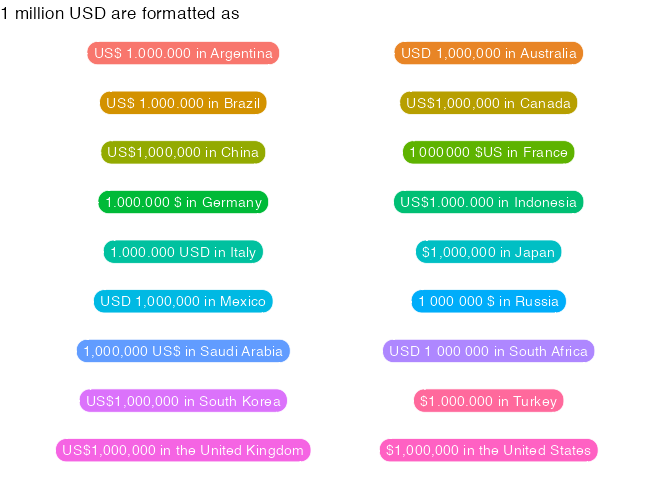
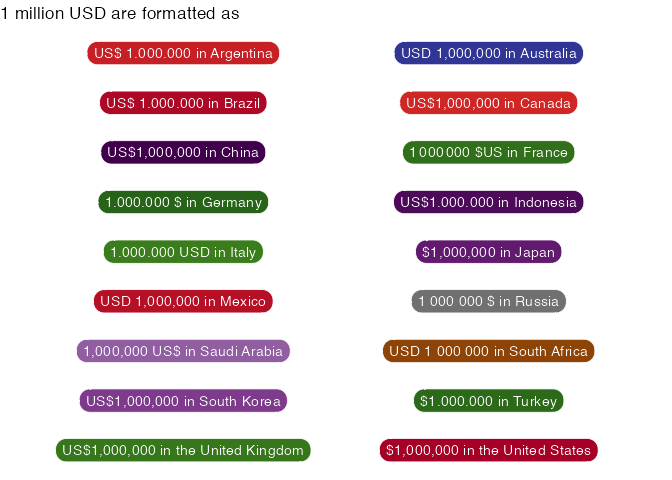
Use a static "not on CRAN yet" badge; color G20 example by country
- Swap the dynamic metacran CRAN badge (which 404s until the package is
  actually on CRAN) for a static shields.io badge reading "not on CRAN
  yet", following the convention used by several other pre-release R
  packages. Swap back to the dynamic badge once the real release lands.
- Color the README/pkgdown-home G20 example's country labels using
  gapminder::country_colors instead of the default discrete hue palette,
  remapping South Korea to gapminder's "Korea, Rep." entry and giving
  Russia (absent from gapminder's 142-country palette) a manual fallback
  color.

Claude-Session: https://claude.ai/code/session_01Ji28NTeyWXtEqtvVfzVnot

diff --git a/README.md b/README.md
@@ -11,7 +11,7 @@
 
 [![R-CMD-check](https://github.com/trekonom/countryscales/actions/workflows/R-CMD-check.yaml/badge.svg)](https://github.com/trekonom/countryscales/actions/workflows/R-CMD-check.yaml)
 [![CRAN
-status](https://www.r-pkg.org/badges/version/countryscales)](https://CRAN.R-project.org/package=countryscales)
+status](https://img.shields.io/badge/CRAN-not%20on%20CRAN%20yet-lightgrey)](https://CRAN.R-project.org/package=countryscales)
 [![Codecov test
 coverage](https://codecov.io/gh/trekonom/countryscales/graph/badge.svg)](https://app.codecov.io/gh/trekonom/countryscales)
 <!-- badges: end -->
@@ -47,7 +47,19 @@ library(dplyr, warn.conflicts = FALSE)
 
 g20 <- countryscales::g20 |>
   # India is not supported
-  filter(iso2c != "IN") |>
+  filter(iso2c != "IN")
+
+# gapminder's classic per-country colors (Hans Rosling's bubble charts),
+# keyed to match g20$country: "Korea, Rep." is gapminder's name for South
+# Korea, and gapminder's 142-country palette doesn't cover Russia at all,
+# so it gets a manually chosen fallback color
+country_colors <- gapminder::country_colors[
+  recode(g20$country, "South Korea" = "Korea, Rep.")
+] |>
+  setNames(g20$country)
+country_colors[["Russia"]] <- "#707070"
+
+g20 <- g20 |>
   mutate(
     x = factor(rep(1:2, 9)),
     y = factor(rep(9:1, each = 2)),
@@ -59,12 +71,16 @@ g20 <- countryscales::g20 |>
     )
   )
 
+names(country_colors)[names(country_colors) == "United States"] <- "the United States"
+names(country_colors)[names(country_colors) == "United Kingdom"] <- "the United Kingdom"
+
 ggplot(g20, aes(x = x, y = y)) +
   geom_label(
     aes(label = paste(value, "in", country), fill = country),
     label.padding = unit(5, "pt"), label.r = unit(8, "pt"),
     color = "white"
   ) +
+  scale_fill_manual(values = country_colors) +
   theme_void() +
   labs(
     title = "1 million USD are formatted as"
